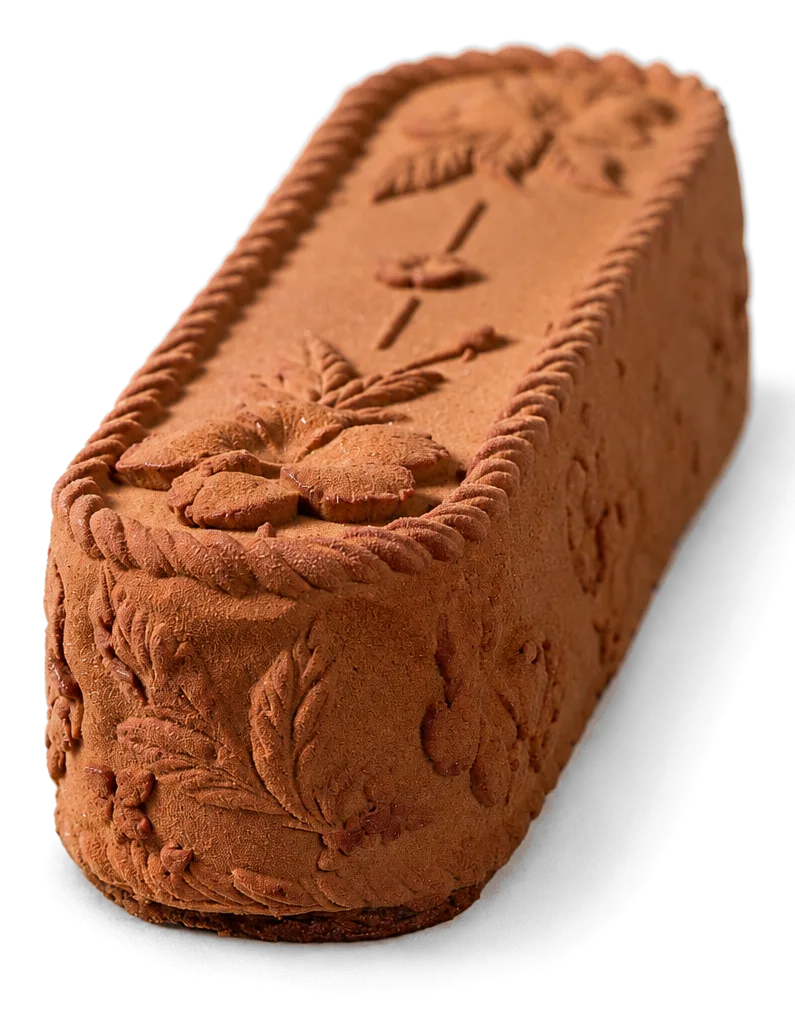
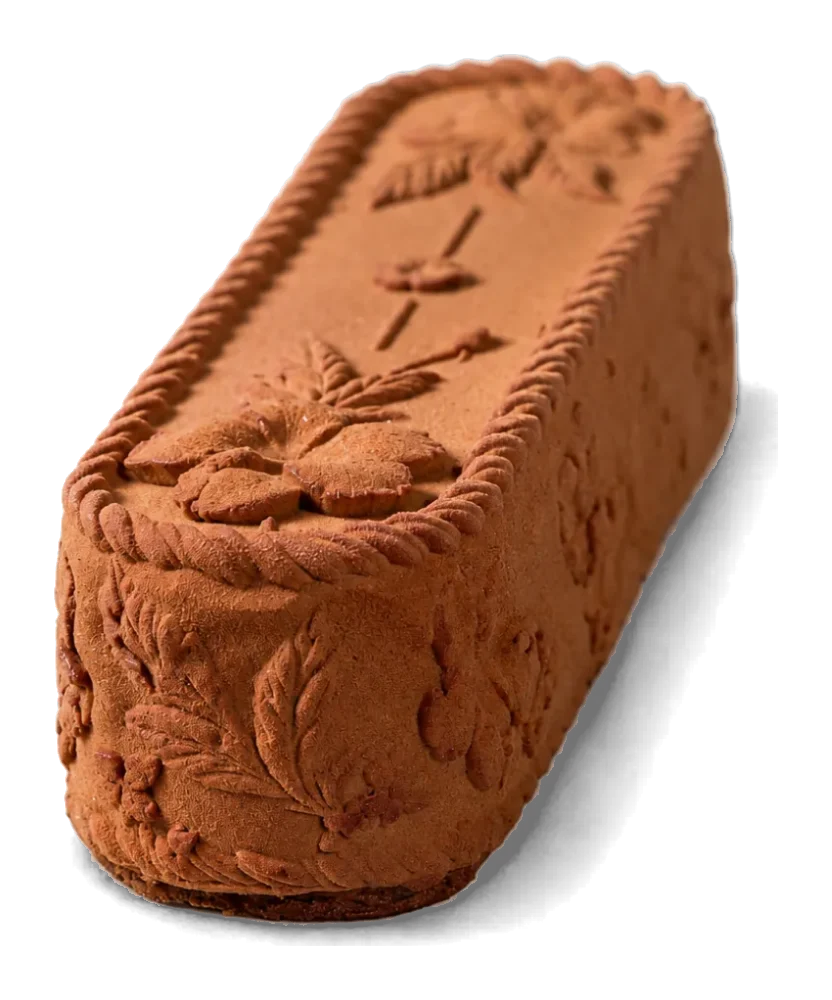
Carrousel : détourage propre des bûches exotique et chocolat, bûches entières sur téléphone
- Ombre fondue sans bord net (même méthode que la vanille)
- Téléphone : pièce de devant à 60 % de l'écran, pièces de côté resserrées
  pour ne plus être coupées par le bord

diff --git a/index.html b/index.html
@@ -105,10 +105,10 @@
         <div class="carousel" data-carousel aria-roledescription="carrousel" aria-label="Nos pièces de saison">
           <div class="carousel__ring">
             <figure class="carousel__item carousel__item--fondu" data-name="Bûche exotique">
-              <img src="images/buche-exotique-profil-detoure.webp" width="789" height="942" alt="Bûche exotique jaune vue de profil, moulée en relief d'hibiscus et de feuillages, bordée de torsades">
+              <img src="images/buche-exotique-profil-detoure.webp" width="863" height="977" alt="Bûche exotique jaune vue de profil, moulée en relief d'hibiscus et de feuillages, bordée de torsades">
             </figure>
             <figure class="carousel__item carousel__item--fondu" data-name="Bûche chocolat">
-              <img src="images/buche-chocolat-profil-detoure.webp" width="795" height="1010" alt="Bûche chocolat vue de profil, moulée en relief d'hibiscus et de feuillages, bordée de torsades">
+              <img src="images/buche-chocolat-profil-detoure.webp" width="832" height="1000" alt="Bûche chocolat vue de profil, moulée en relief d'hibiscus et de feuillages, bordée de torsades">
             </figure>
             <figure class="carousel__item carousel__item--fondu" data-name="Bûche vanille">
               <img src="images/buche-vanille-profil-detoure.webp" width="822" height="973" alt="Bûche vanille ivoire vue de profil, moulée en relief d'hibiscus et de feuillages, bordée de torsades">

diff --git a/styles.css b/styles.css
@@ -202,8 +202,8 @@ p { margin: 0 0 1em; }
   .hero__toile { width: 100%; margin-top: -1rem; }
   .title { letter-spacing: .22em; margin-right: -.22em; gap: .9rem; }
   .hero .title::before, .hero .title::after { display: none; }
-  .carousel__item { width: 64vw; }
-  .carousel__ring { height: 58vw; }
+  .carousel__item { width: 60vw; }
+  .carousel__ring { height: 55vw; }
   .carousel__name { min-width: 0; flex: 1; }
 
   .hero__corner { width: 80px; top: 0; opacity: .8; }

diff --git a/script.js b/script.js
@@ -67,7 +67,7 @@ if (carousel) {
     const w = carousel.clientWidth;
     const itemW = items[0].offsetWidth;
     // Téléphone : les pièces de côté restent dans l'écran malgré la grande pièce de devant
-    const radius = itemW * (w < 700 ? 0.72 : 0.8);
+    const radius = itemW * (w < 700 ? 0.64 : 0.8);
     items.forEach((el, i) => {
       const t = i * step + angle;
       const depth = Math.cos(t);              // 1 devant, -1 derrière
